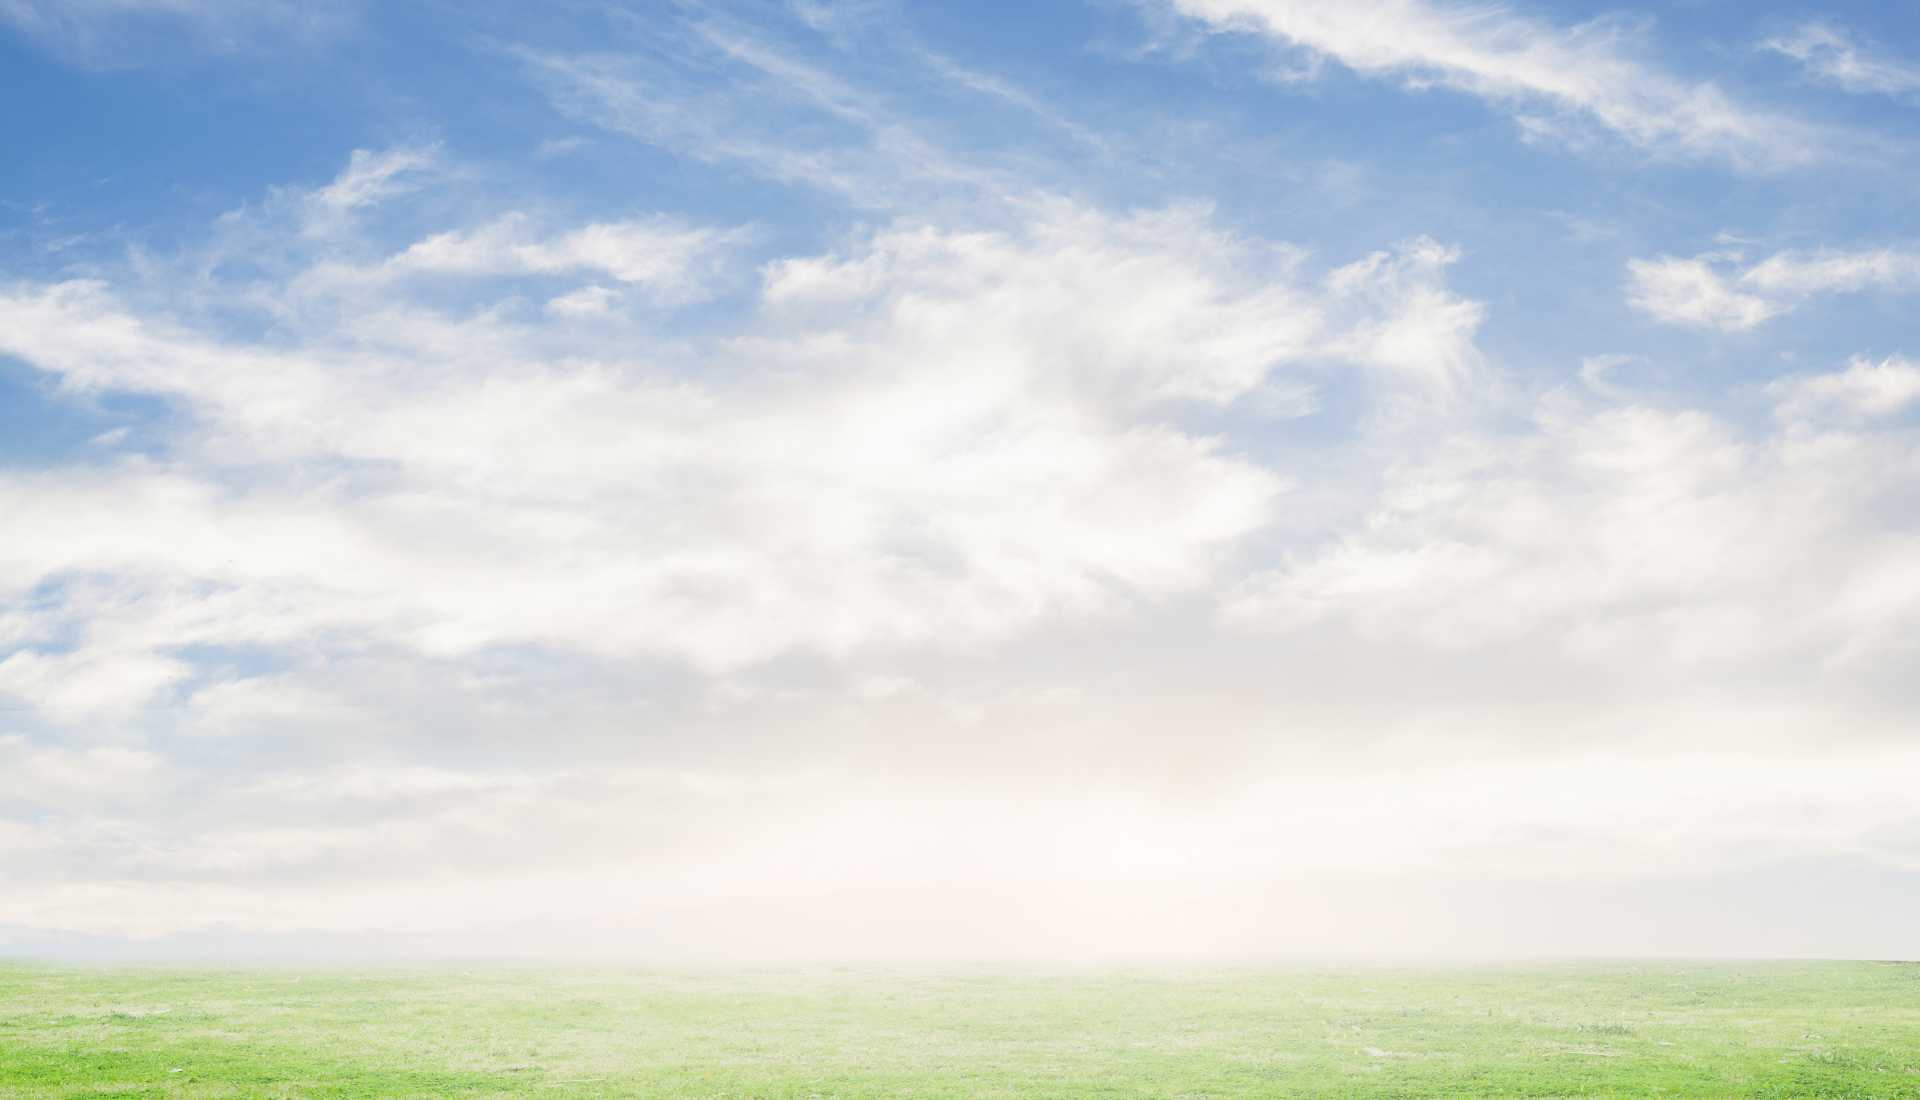
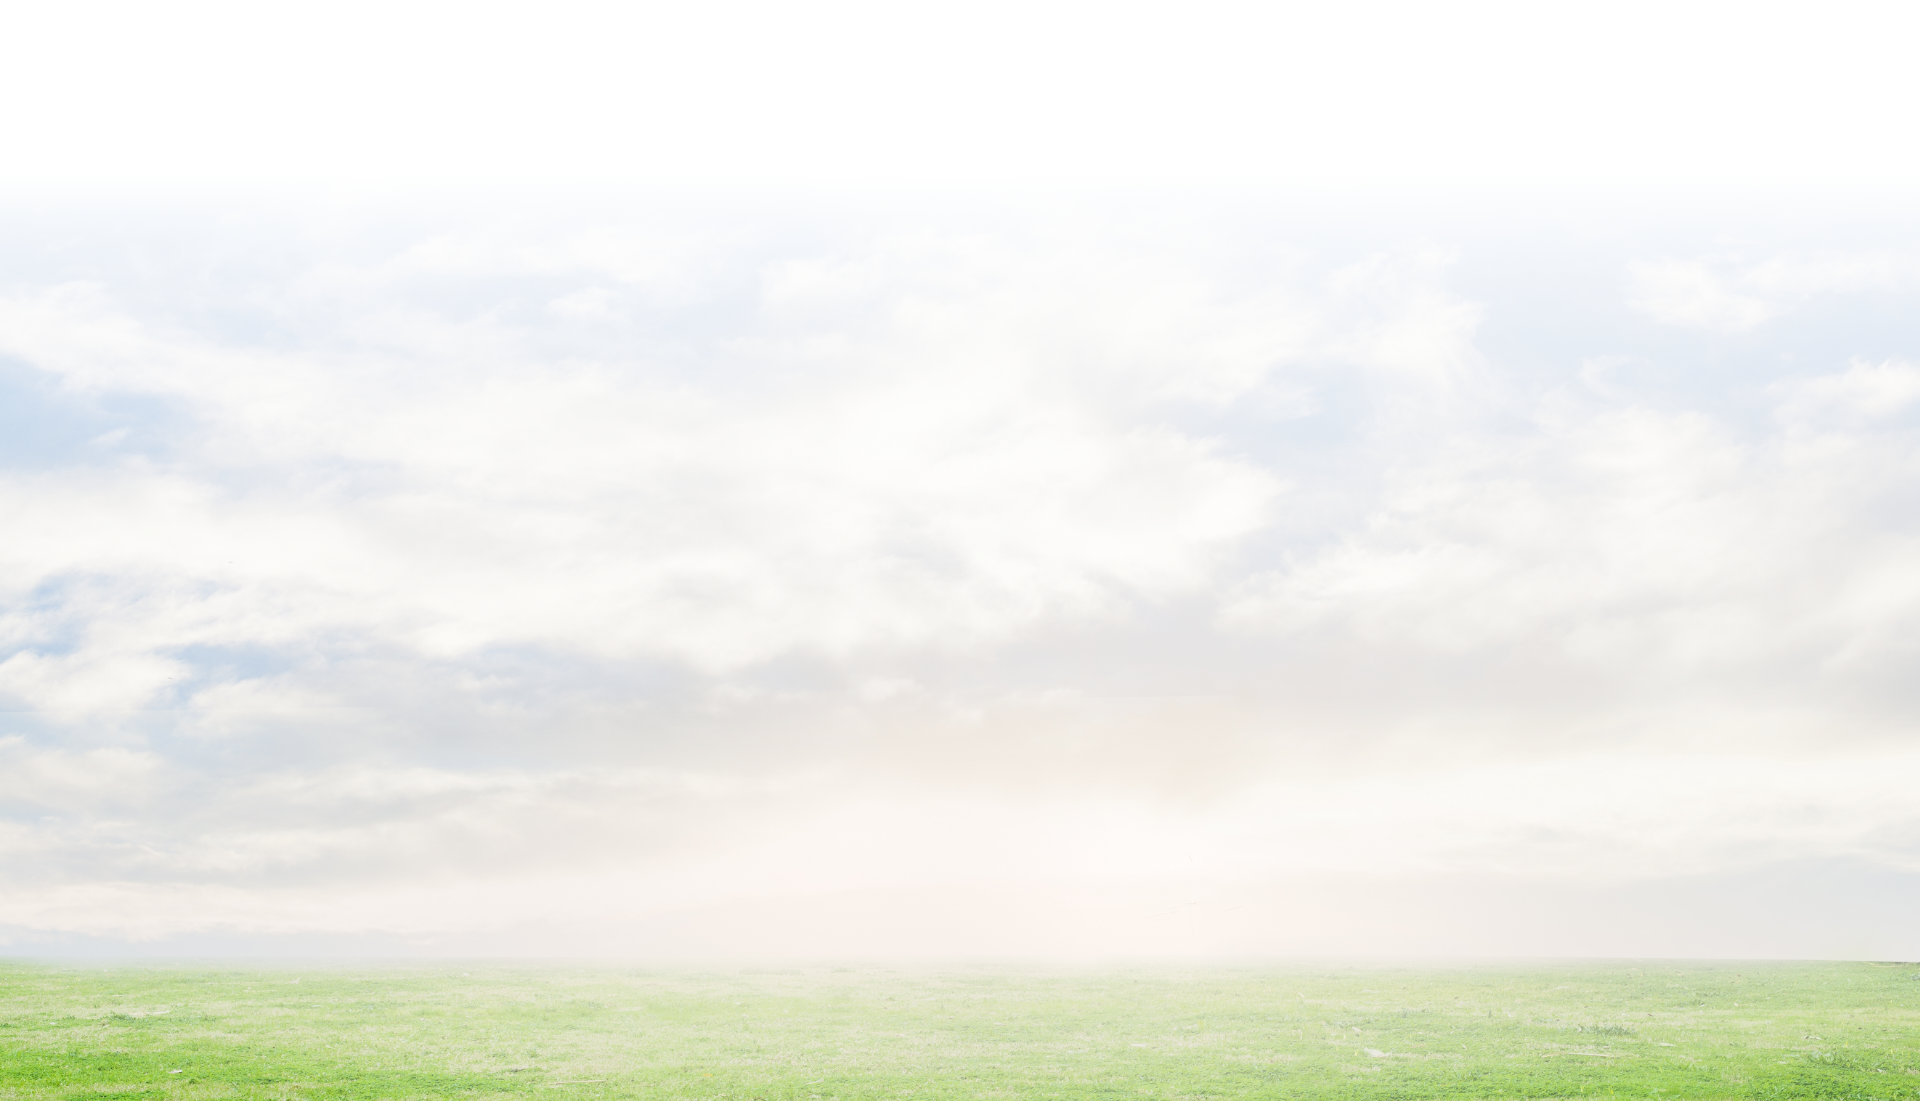
update change background image

diff --git a/front/template/default/assets/css/source.css b/front/template/default/assets/css/source.css
@@ -2229,6 +2229,8 @@ div.swal2-html-container {
 .layout-vision .bg-city {
   position: absolute;
   background-image: url("../img/background/bg-city.png");
+  background-size: cover;
+  background-position: center;
   width: 100vw;
   height: 100%;
   top: 0;
@@ -2272,6 +2274,8 @@ div.swal2-html-container {
 .layout-logo .background-sky {
   position: absolute;
   background-image: url("../img/background/bg-sky.png");
+  background-size: cover;
+  background-position: center;
   width: 100vw;
   height: 100%;
   top: 0;
@@ -2418,6 +2422,9 @@ div.swal2-html-container {
   }
   .layout-mission .title-content h5 {
     font-size: var(--typo-md);
+  }
+  .layout-vision .image-content {
+    margin-left: 75px;
   }
   .layout-logo .logo img {
     width: 300px;

diff --git a/front/template/default/assets/scss/components/_ck-editor-content-2.scss b/front/template/default/assets/scss/components/_ck-editor-content-2.scss
@@ -182,6 +182,8 @@
     .bg-city {
         position: absolute;
         background-image: url('../img/background/bg-city.png');
+        background-size: cover;
+        background-position: center;
         width: 100vw;
         height: 100%;
         top: 0;
@@ -231,6 +233,8 @@
     .background-sky {
         position: absolute;
         background-image: url("../img/background/bg-sky.png");
+        background-size: cover;
+        background-position: center;
         width: 100vw;
         height: 100%;
         top: 0;
@@ -433,6 +437,10 @@
         h5 {
             font-size: var(--typo-md);
         }
+    }
+
+    .layout-vision .image-content {
+        margin-left: 75px;
     }
 
     .layout-logo .logo {
